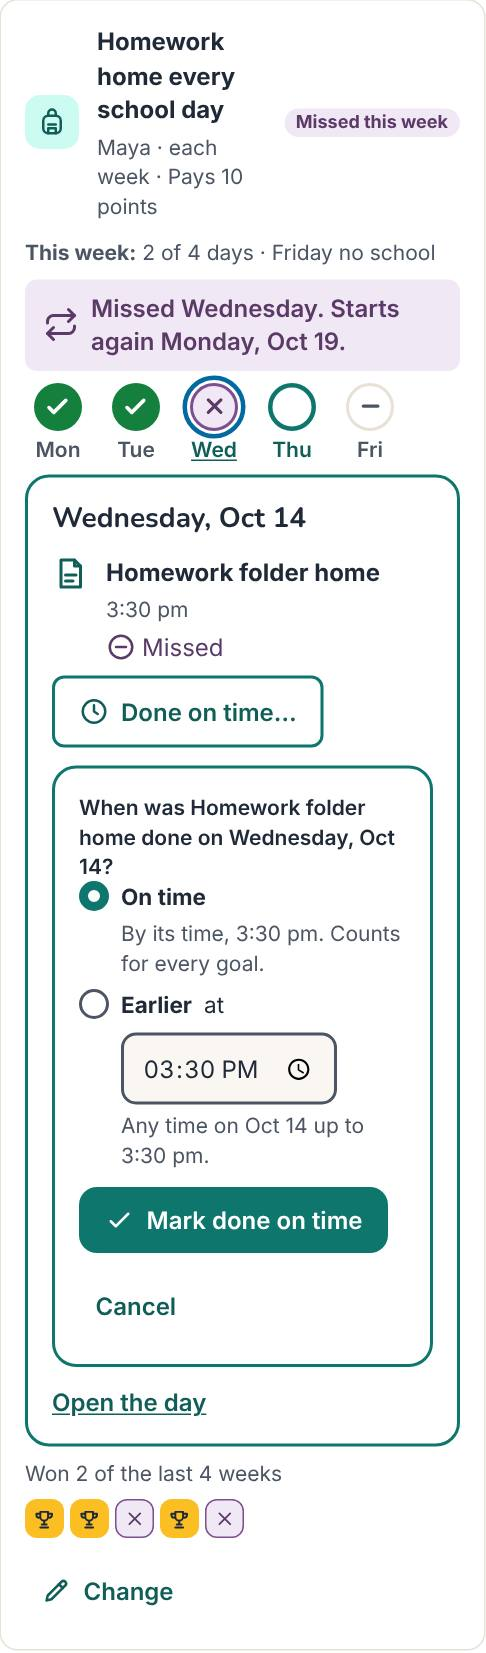
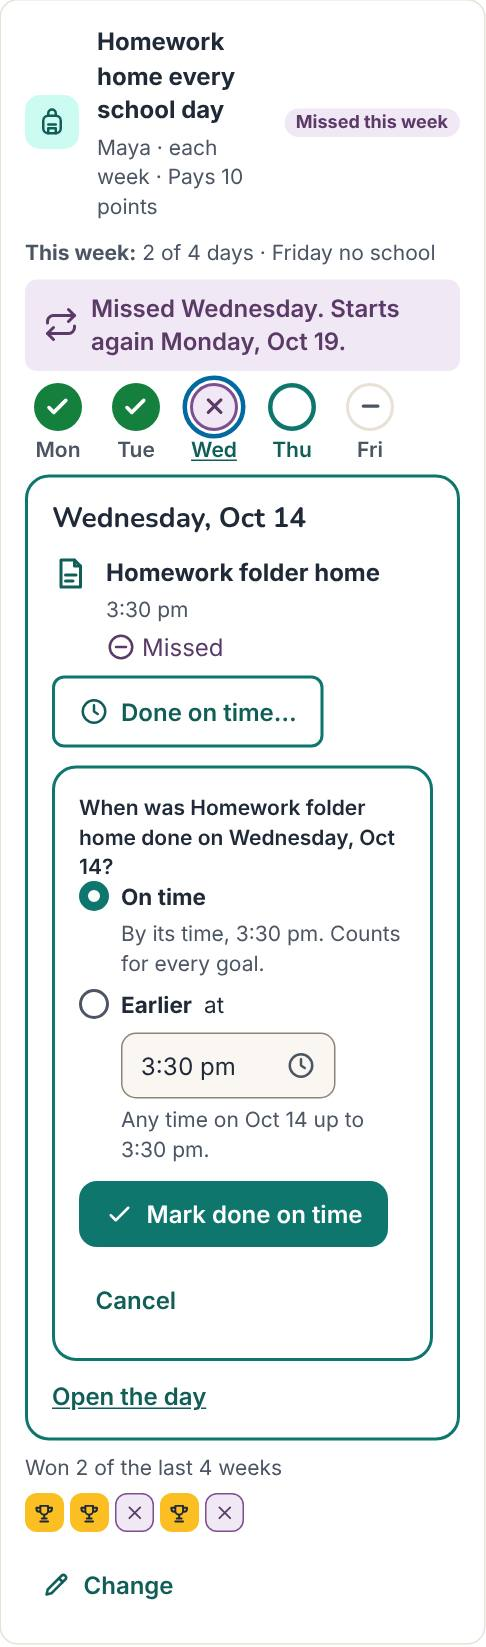
[CHR-24-k] WP-117: Done on time…'s time written as the app writes times
CI's WebKit still drew the plain time field as "3:30:00 PM". The panel's Earlier time now uses the
app's own DatePick (D-128), "3:30 pm", as every other time field in the admin app does; the action
and the database still refuse a time after the chore's due time. Guide pictures retaken.

Claude-Session: https://claude.ai/code/session_019Ro1Jhme4rbDHgK3rEouBS

diff --git a/apps/web/app/(admin)/admin/on-time-panel.tsx b/apps/web/app/(admin)/admin/on-time-panel.tsx
@@ -4,6 +4,7 @@ import { clock } from '@/lib/chores';
 import { monthDay, weekday } from '@/lib/goal-periods';
 import { latestTime, onTimeLine } from '@/lib/on-time';
 import { markOnTime } from './on-time-actions';
+import { OnTimeTime } from './on-time-time';
 
 export interface OnTimeConfirm {
   /** "This makes Maya’s week of Nov 9 a win: 10 points." */
@@ -82,15 +83,10 @@ export function OnTimePanel({
           <span>
             <span className="fw-ontime__earlier">
               <b>Earlier</b> at
-              <input
-                type="time"
-                className="fw-input fw-ontime__time"
+              <OnTimeTime
                 name={`at:${item.id}`}
-                max={latest}
-                // Whole minutes: Safari shows seconds without it.
-                step={60}
-                defaultValue={confirm?.at ?? latest}
-                aria-label={`The time ${item.title} was done`}
+                label={`The time ${item.title} was done`}
+                initial={confirm?.at ?? latest}
               />
             </span>
             <span className="fw-muted fw-ontime__hint">

diff --git a/apps/web/app/(admin)/admin/on-time-time.tsx b/apps/web/app/(admin)/admin/on-time-time.tsx
@@ -1,0 +1,32 @@
+'use client';
+
+import { DatePick } from '@familywise/ui';
+import { useState } from 'react';
+
+/**
+ * [CHR-24][NFR-16] Done on time…'s **Earlier** time, written as the app writes times ("3:30 pm",
+ * DatePick, D-128) in place of the browser's own field, which Safari draws as "3:30:00 PM". Its
+ * latest is the chore's due time; the action and the database refuse anything later.
+ */
+export function OnTimeTime({
+  name,
+  label,
+  initial,
+}: {
+  name: string;
+  label: string;
+  initial: string;
+}) {
+  const [value, setValue] = useState(initial);
+  return (
+    <DatePick
+      type="time"
+      className="fw-pick--clock fw-ontime__time"
+      name={name}
+      label={label}
+      initial={initial}
+      value={value}
+      onValue={setValue}
+    />
+  );
+}

diff --git a/e2e/ui/on-time.spec.ts b/e2e/ui/on-time.spec.ts
@@ -45,10 +45,6 @@ for (const theme of ['day', 'evening'] as const) {
     await expect(panel.getByRole('radio', { name: /On time/ })).toBeChecked();
     await expect(panel.getByText('By its time, 3:30 pm. Counts for every goal.')).toBeVisible();
     await expect(panel.getByLabel('The time Homework folder home was done')).toHaveValue('15:30');
-    await expect(panel.getByLabel('The time Homework folder home was done')).toHaveAttribute(
-      'max',
-      '15:30',
-    );
     await expect(panel).toContainText('Counts for Homework home every school day.');
     await expect(
       panel.getByRole('button', { name: 'Mark Homework folder home done on time' }),

diff --git a/packages/ui/src/ui.css b/packages/ui/src/ui.css
@@ -1678,12 +1678,8 @@ select.fw-input.fw-input--short {
   align-items: center;
   gap: var(--s-2);
 }
-.fw-input.fw-ontime__time {
-  display: inline-block;
-  width: 9em;
-  color: var(--text);
-  background: var(--bg);
-  min-height: 48px;
+.fw-pick.fw-ontime__time {
+  width: 9.5em;
   font-variant-numeric: tabular-nums;
 }
 .fw-ontime__goals,
